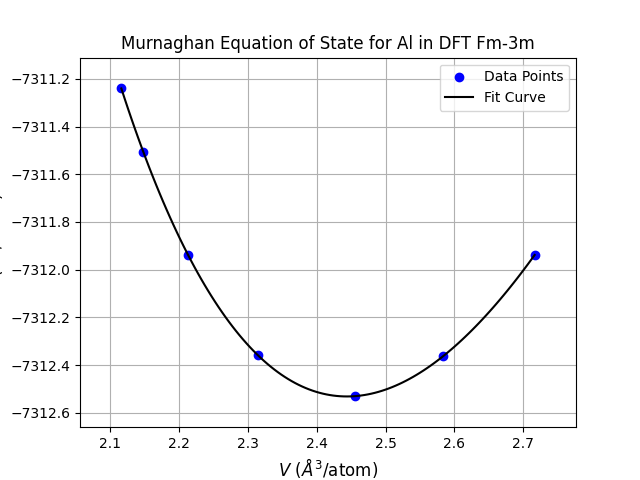
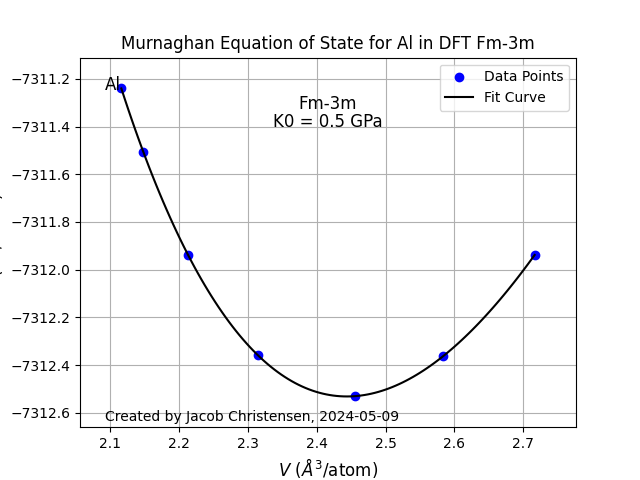
fixed annotations

Changed region(s): [[0.1562, 0.8438, 0.625, 0.875], [0.4062, 0.1875, 0.5938, 0.2812], [0.1562, 0.1562, 0.1875, 0.1875]]

diff --git a/final_exam/annotate_plot.py b/final_exam/annotate_plot.py
@@ -7,49 +7,46 @@ import matplotlib.pyplot as plt
 import numpy as np
 from datetime import datetime
 
-def annotate_plot(annotations):
+def annotate_plot(ax, annotations):
     """
-    Annotates a plot using the provided annotations dictionary.
+    Annotates a plot using the provided annotations dictionary, positioning based on axes coordinates.
 
     Parameters:
+    ax (AxesSubplot): The matplotlib axes on which to apply the annotations.
     annotations (dict): A dictionary where keys are labels to be annotated and values are dictionaries containing:
-        'position' (ndarray): The x, y coordinates for the position of the text box.
+        'position' (ndarray): The x, y coordinates for the position of the text box in axes coordinates.
         'alignment' (list of strings): Contains horizontalalignment and verticalalignment values.
         'fontsize' (float): The font size of the text.
     """
     for label, properties in annotations.items():
-        plt.text(
+        ax.text(
             properties['position'][0], properties['position'][1],
             label,
             horizontalalignment=properties['alignment'][0],
             verticalalignment=properties['alignment'][1],
-            fontsize=properties['fontsize']
+            fontsize=properties['fontsize'],
+            transform=ax.transAxes  # This makes the position relative to the axes
         )
 
+# Example usage within a plotting function
 if __name__ == "__main__":
-    # Create a simple plot to demonstrate annotation
-    plt.figure()
+    fig, ax = plt.subplots()
     x = np.linspace(0, 10, 100)
     y = np.sin(x)
-    plt.plot(x, y, label='Sine wave')
-    plt.xlabel('X axis')
-    plt.ylabel('Y axis')
-    plt.title('Test Plot with Annotations')
+    ax.plot(x, y, label='Sine wave')
+    ax.set_xlabel('X axis')
+    ax.set_ylabel('Y axis')
+    ax.set_title('Test Plot with Annotations')
 
-    # Annotations dictionary
     annotations = {
         "Created by Jacob, Noah ({})".format(datetime.now().date().isoformat()): {
-            'position': np.array([0, -1.3]),  # Relative to axes coordinates
+            'position': np.array([0, 0]),  # Relative to axes coordinates
             'alignment': ['left', 'top'],
             'fontsize': 10
         }
     }
-
-    # Call the annotate function
-    annotate_plot(annotations)
-
-    # Adjust plot to fit annotations and show plot
-    plt.ylim(-1.5, 1.5)  # Adjusting y limits to show annotation clearly
-    plt.legend()
-    plt.grid(True)
+    annotate_plot(ax, annotations)
+    ax.set_ylim(-1.5, 1.5)  # Adjusting y limits if necessary
+    ax.legend()
+    ax.grid(True)
     plt.show()

diff --git a/final_exam/Christensen_PHYS241FinalScript.py b/final_exam/Christensen_PHYS241FinalScript.py
@@ -75,7 +75,7 @@ def plot_data_and_fit(data, eos_fit_curve, eos_parameters, chemical_symbol, crys
         f'K0 = {eos_parameters[1]:.1f} GPa': {'position': np.array([0.5, 0.85]), 'alignment': ['center', 'top'], 'fontsize': 12},
         f'Created by Jacob Christensen, {datetime.now().date().isoformat()}': {'position': np.array([0.05, 0.01]), 'alignment': ['left', 'bottom'], 'fontsize': 10}
     }
-    annotate_plot(annotations)
+    annotate_plot(ax, annotations)
 
     ax.legend()
     ax.grid(True)
@@ -156,7 +156,7 @@ def visualize_vectors_in_space(minimum_x, maximum_x, number_of_dimensions, poten
     annotations = {
         signature_text: {'position': [0.01, 0.01], 'alignment': ['left', 'bottom'], 'fontsize': 10}
     }
-    annotate_plot(annotations)
+    annotate_plot(ax, annotations)
 
     ax.legend()
     ax.grid(True)
